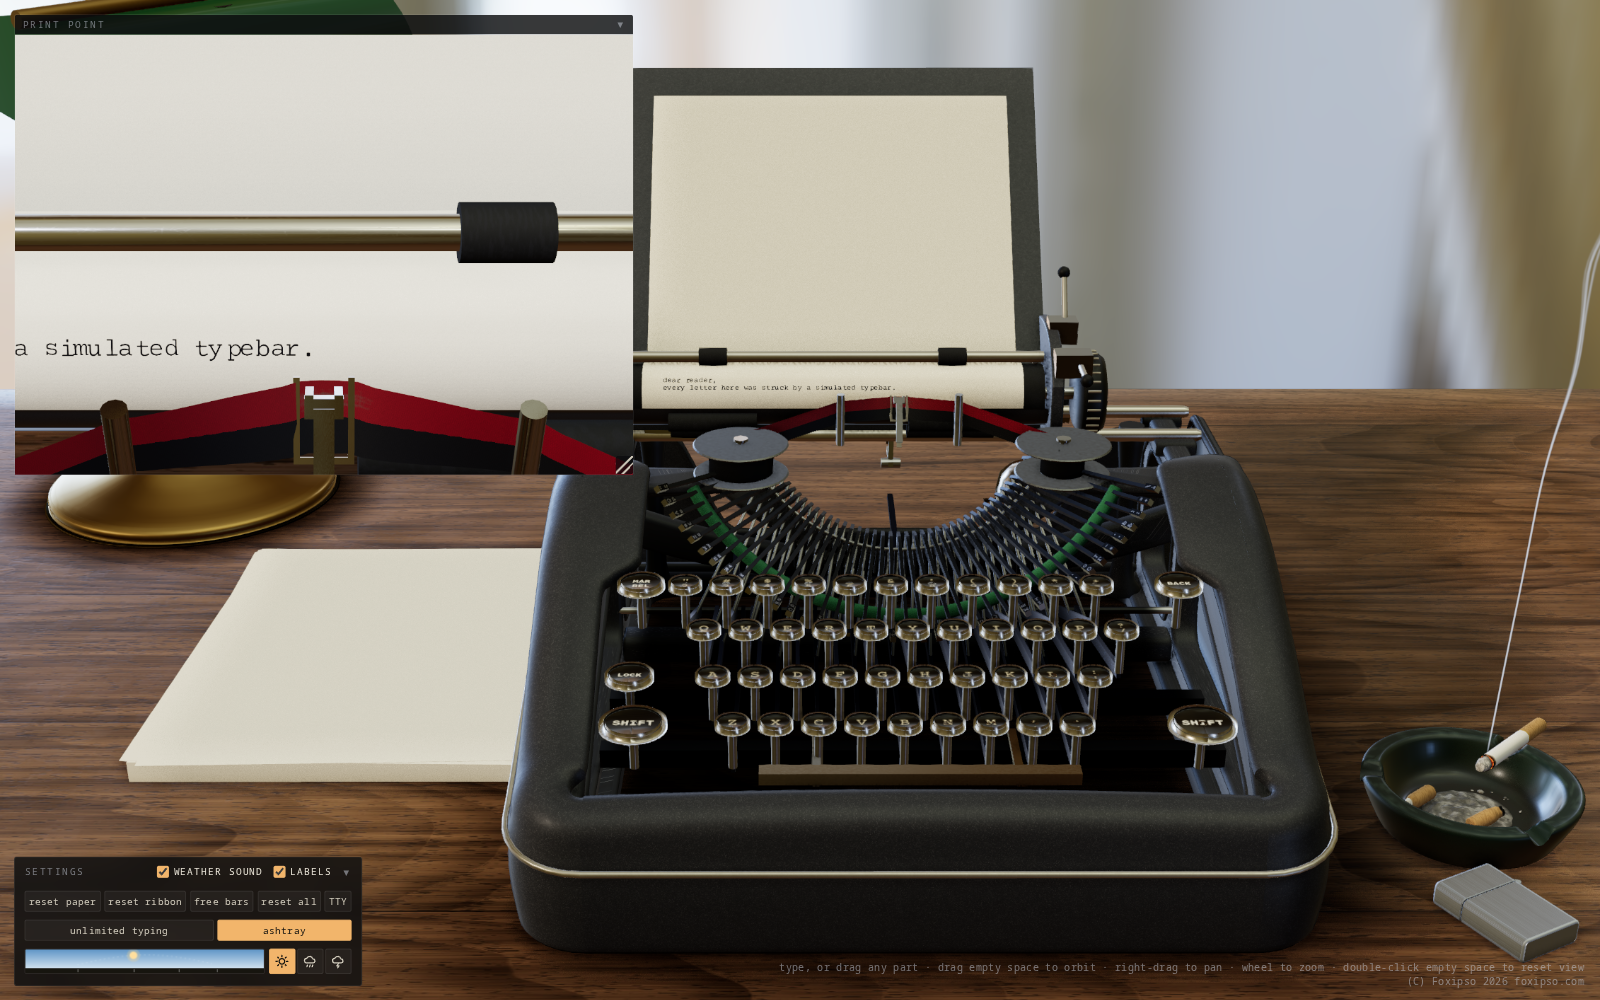
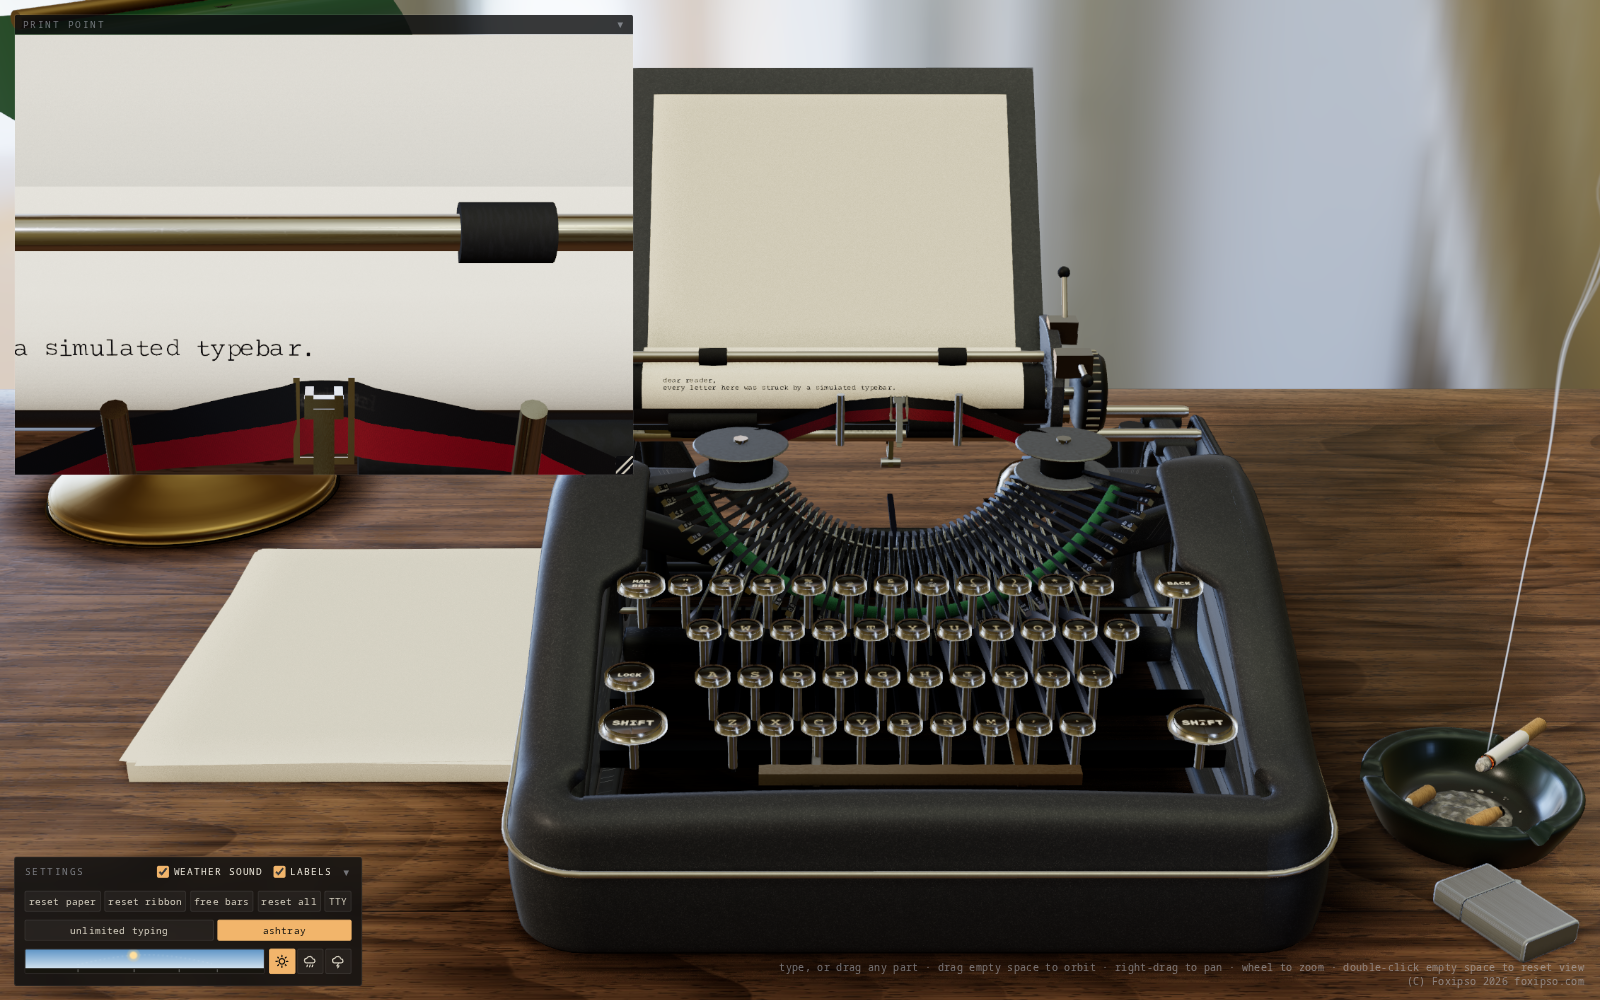
Draw the ribbon's black band on top and red ink in red
The ribbon was drawn with its bands swapped against the printer, which
already took red from the lower half. The sheet on the machine now reads
the colour mask too, so red-band type shows red before the page is
finished, not only on saved pages. README screenshots re-rendered.

diff --git a/src/render/paper-view.js b/src/render/paper-view.js
@@ -22,6 +22,7 @@ export class PaperView {
     const keyDirView = keyDir;
     this.keyDir = keyDir;
     this.ink = new SubrectTexture(renderer, soft.inkTexture);
+    this.inkColour = new SubrectTexture(renderer, soft.colorMask, { singleChannel: true });
     const p = soft.paper;
     // The cloth is coarse along the feed; drawn as chords it cuts into the platen. Refine each cell along v with
     // a Catmull-Rom through the simulated nodes (display only).
@@ -46,11 +47,16 @@ export class PaperView {
     this.geo = geo;
 
     const texel = new THREE.Vector2(1 / soft.inkTexture.width, 1 / soft.inkTexture.height);
+    // The colour mask is downsampled and rounded up, so its last row and column are part empty.
+    const mask = soft.colorMask;
+    const colourScale = new THREE.Vector2(soft.inkTexture.width / (mask.downsample * mask.width), soft.inkTexture.height / (mask.downsample * mask.height));
     const mat = new THREE.MeshStandardMaterial({
       color: 0xe9e2cf, roughness: 0.92, metalness: 0, side: THREE.DoubleSide,
     });
     mat.onBeforeCompile = (sh) => {
       sh.uniforms.uInk = { value: this.ink.tex };
+      sh.uniforms.uInkColour = { value: this.inkColour.tex };
+      sh.uniforms.uInkColourScale = { value: colourScale };
       sh.uniforms.uTexel = { value: texel };
       sh.uniforms.uKeyDir = { value: keyDirView };
       Object.assign(sh.uniforms, this.burn);
@@ -62,7 +68,7 @@ export class PaperView {
         .replace('#include <uv_vertex>', '#include <uv_vertex>\nvInkUv = uv;');
       sh.fragmentShader = sh.fragmentShader
         .replace('#include <common>', `#include <common>
-        uniform sampler2D uInk; uniform vec2 uTexel; uniform vec3 uKeyDir; varying vec2 vInkUv;
+        uniform sampler2D uInk; uniform sampler2D uInkColour; uniform vec2 uInkColourScale; uniform vec2 uTexel; uniform vec3 uKeyDir; varying vec2 vInkUv;
         float fibre(vec2 p){ return fract(sin(dot(floor(p), vec2(127.1,311.7)))*43758.5453); }
         ${BURN_GLSL}`)
         .replace('#include <map_fragment>', `#include <map_fragment>
@@ -79,7 +85,7 @@ export class PaperView {
         float inkA = smoothstep(0.02, 0.6, inkR);
         float grain = fibre(gl_FragCoord.xy*0.5)*0.03;
         diffuseColor.rgb *= 1.0 - grain;
-        diffuseColor.rgb = mix(diffuseColor.rgb, vec3(0.013,0.012,0.016), inkA);
+        diffuseColor.rgb = mix(diffuseColor.rgb, mix(vec3(0.013,0.012,0.016), vec3(0.392,0.0144,0.0144), step(0.5, texture2D(uInkColour, inkUv*uInkColourScale).r)), inkA);   // the red is pages' RED_RGB, linear
         vec3 burnGlow = vec3(0.);
         if (uBurn.z > 0.) {
           float bd = burnDepth(vInkUv);
@@ -178,6 +184,7 @@ export class PaperView {
     this.geo.getAttribute('position').needsUpdate = true;
     if (p.normalsDirty) { this.geo.computeVertexNormals(); p.normalsDirty = false; }
     this.ink.flush();
+    this.inkColour.flush();
     this.geo.boundingSphere = null;
   }
 }
@@ -210,7 +217,7 @@ export class RibbonView {
       sh.fragmentShader = sh.fragmentShader
         .replace('#include <common>', '#include <common>\nvarying vec2 vR; uniform sampler2D uRibbon; uniform float uHasTex;')
         .replace('#include <map_fragment>', `#include <map_fragment>
-        vec3 band = vR.y < 0.5 ? vec3(0.010,0.010,0.013) : vec3(0.19,0.012,0.014);
+        vec3 band = vR.y < 0.5 ? vec3(0.19,0.012,0.014) : vec3(0.010,0.010,0.013);   // black is the upper half, red the lower, as in print.js
         float inWindow = step(0.0, vR.x)*step(vR.x, 1.0);
         vec2 ribbonTex = uHasTex > 0.5 ? texture2D(uRibbon, clamp(vR, vec2(0.0), vec2(1.0))).rg : vec2(1.0, 0.0);
         // R = remaining ink and weave, G = depleted ink; depleted cloth reads paler and greyer.

diff --git a/src/render/materials.js b/src/render/materials.js
@@ -225,10 +225,12 @@ export async function loadStudioTextures(mats, paperMaterial, aniso = 8, { lowTi
 
 /** A DataTexture with partial uploads through texSubImage2D, driven by dirty rects (contract: RG). */
 export class SubrectTexture {
-  constructor(renderer, source) {
+  /** source: { data, width, height, dirty }, two bytes per texel, or one with { singleChannel: true }. */
+  constructor(renderer, source, { singleChannel = false } = {}) {
     this.renderer = renderer;
     this.source = source;
-    this.tex = new THREE.DataTexture(source.data, source.width, source.height, THREE.RGFormat, THREE.UnsignedByteType);
+    this.singleChannel = singleChannel;
+    this.tex = new THREE.DataTexture(source.data, source.width, source.height, singleChannel ? THREE.RedFormat : THREE.RGFormat, THREE.UnsignedByteType);
     this.tex.minFilter = THREE.LinearFilter;
     this.tex.magFilter = THREE.LinearFilter;
     this.tex.generateMipmaps = false;
@@ -257,7 +259,7 @@ export class SubrectTexture {
       if (w <= 0 || h <= 0) continue;
       gl.pixelStorei(gl.UNPACK_SKIP_PIXELS, x);
       gl.pixelStorei(gl.UNPACK_SKIP_ROWS, y);
-      gl.texSubImage2D(gl.TEXTURE_2D, 0, x, y, w, h, gl.RG, gl.UNSIGNED_BYTE, s.data);
+      gl.texSubImage2D(gl.TEXTURE_2D, 0, x, y, w, h, this.singleChannel ? gl.RED : gl.RG, gl.UNSIGNED_BYTE, s.data);
       this._since += w * h;
     }
     gl.pixelStorei(gl.UNPACK_ROW_LENGTH, 0);
